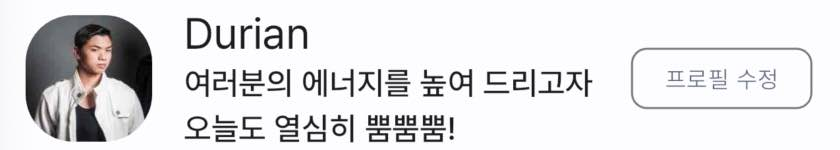
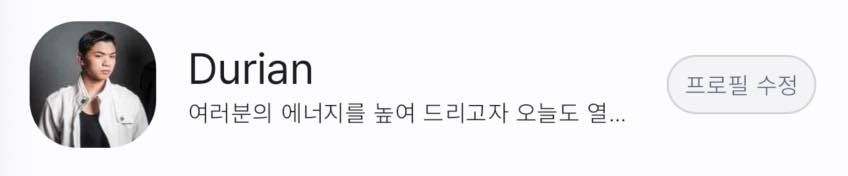
doc

diff --git a/lib/src/user/widgets/profile/my_profile_sticker.dart b/lib/src/user/widgets/profile/my_profile_sticker.dart
@@ -36,7 +36,9 @@ class MyProfileSticker extends StatelessWidget {
                     ),
                     Text(
                       my.stateMessage,
-                      style: Theme.of(context).textTheme.labelLarge,
+                      style: Theme.of(context).textTheme.labelSmall,
+                      maxLines: 1,
+                      overflow: TextOverflow.ellipsis,
                     ),
                   ],
                 ),

diff --git a/docs/korean/building_blocks.md b/docs/korean/building_blocks.md
@@ -164,3 +164,33 @@ To list chat rooms that the login user joined, use `DefaultChatRoomListView` wid
 디자인 변경은 `Theme` 위젯으로 하고, 필요한 경우, 소스 코드를 복사해서 수정하여 사용하면 된다.
 
 ![my_profile_sticker](https://github.com/thruthesky/fireship/blob/main/docs/assets/images/my_profile_sticker.jpg?raw=true)
+
+
+아래의 코드는 Sliver 스크롤 뷰에 추가한 것으로 
+
+```dart
+SliverToBoxAdapter(
+  child: Theme(
+    data: Theme.of(context).copyWith(
+      chipTheme: ChipThemeData(
+        padding:
+            const EdgeInsets.symmetric(vertical: 0, horizontal: 0),
+        backgroundColor: context.onSurface.withAlpha(10),
+        side: BorderSide(color: context.onSurface.withAlpha(20)),
+        shape: RoundedRectangleBorder(
+          borderRadius: BorderRadius.circular(20),
+        ),
+        selectedColor: context.primary,
+        labelStyle:
+            Theme.of(context).textTheme.labelMedium!.copyWith(
+                  fontSize: 14,
+                  fontWeight: FontWeight.w400,
+                  color: context.onSurface,
+                ),
+      ),
+    ),
+    child: const MyProfileSticker(),
+  ),
+),
+```
+
